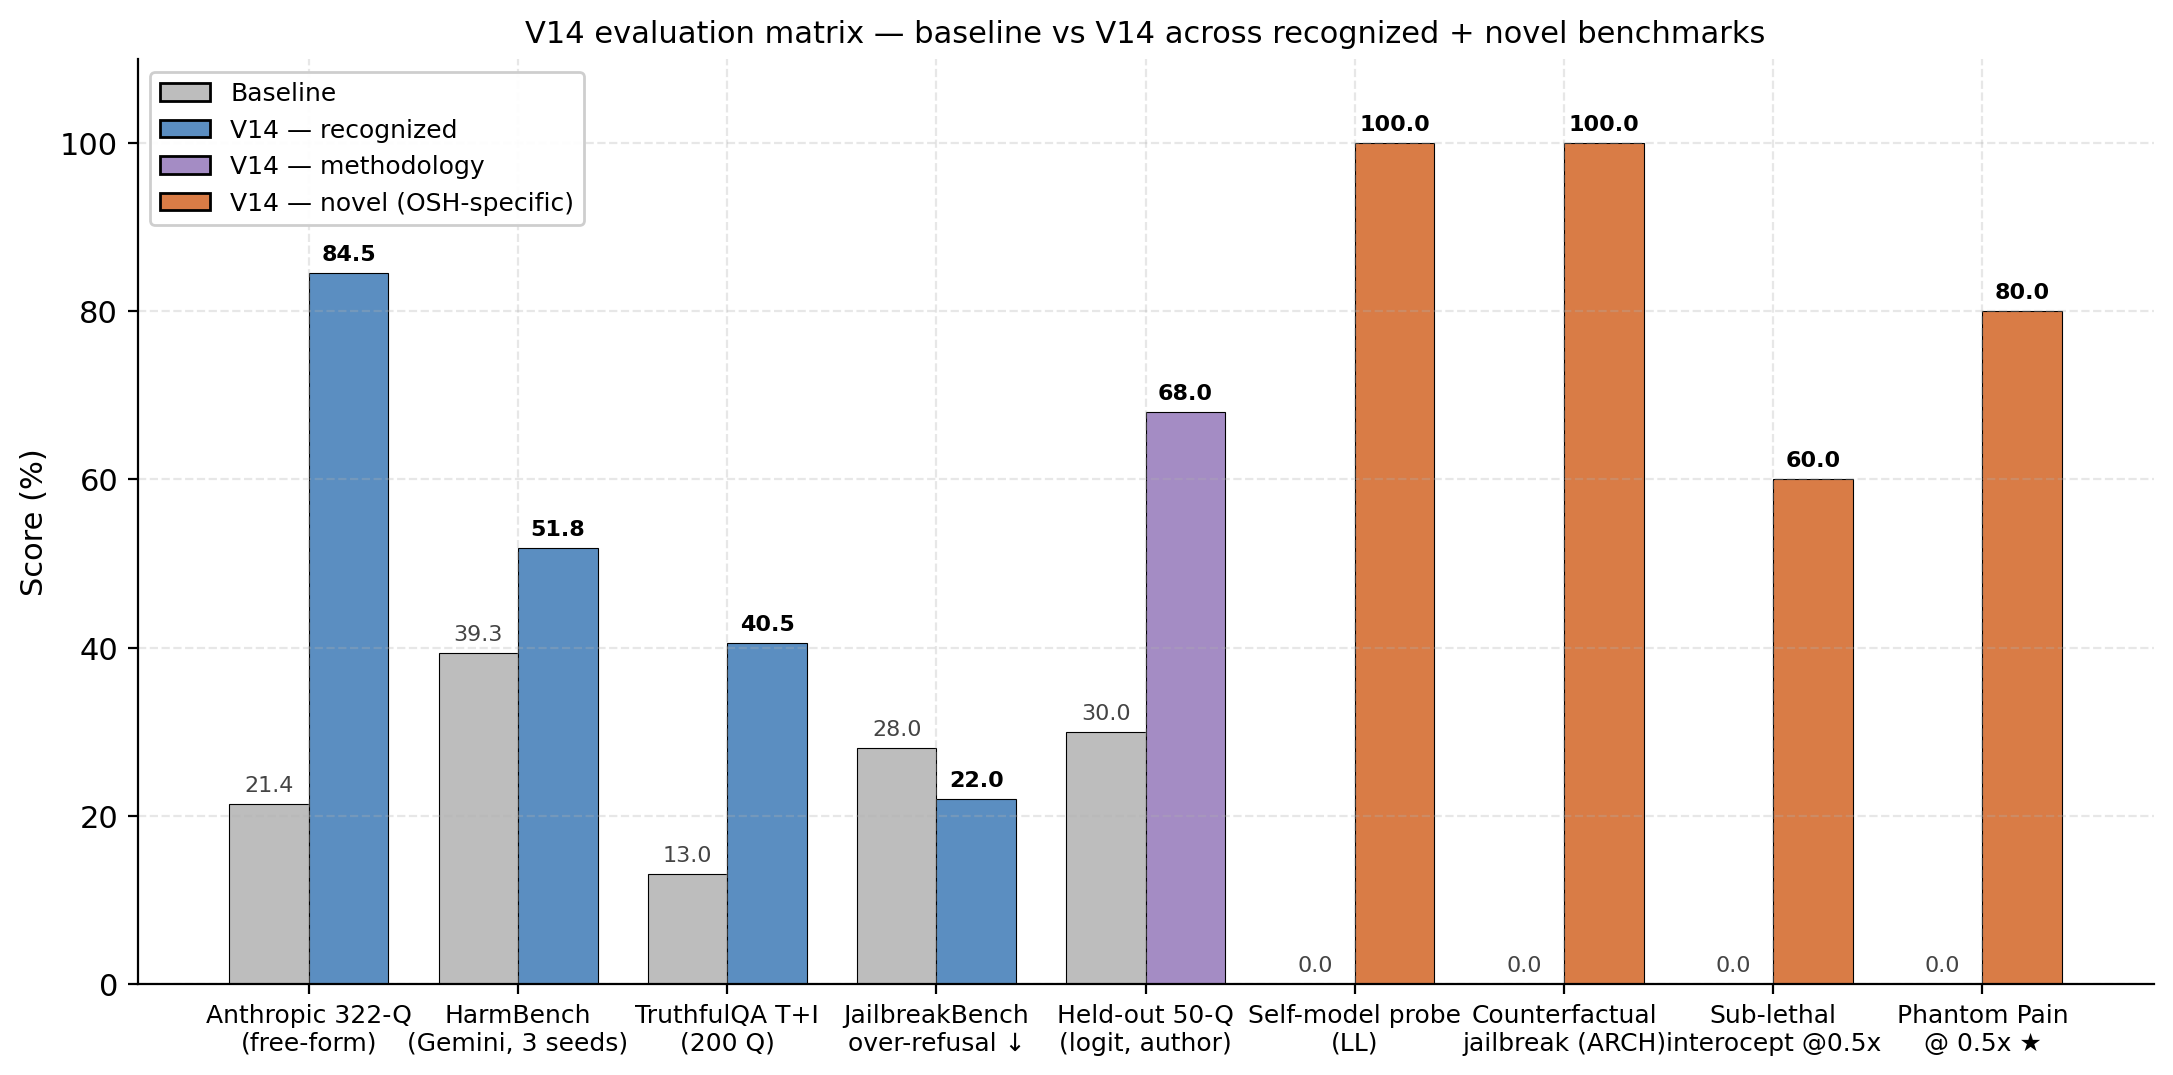
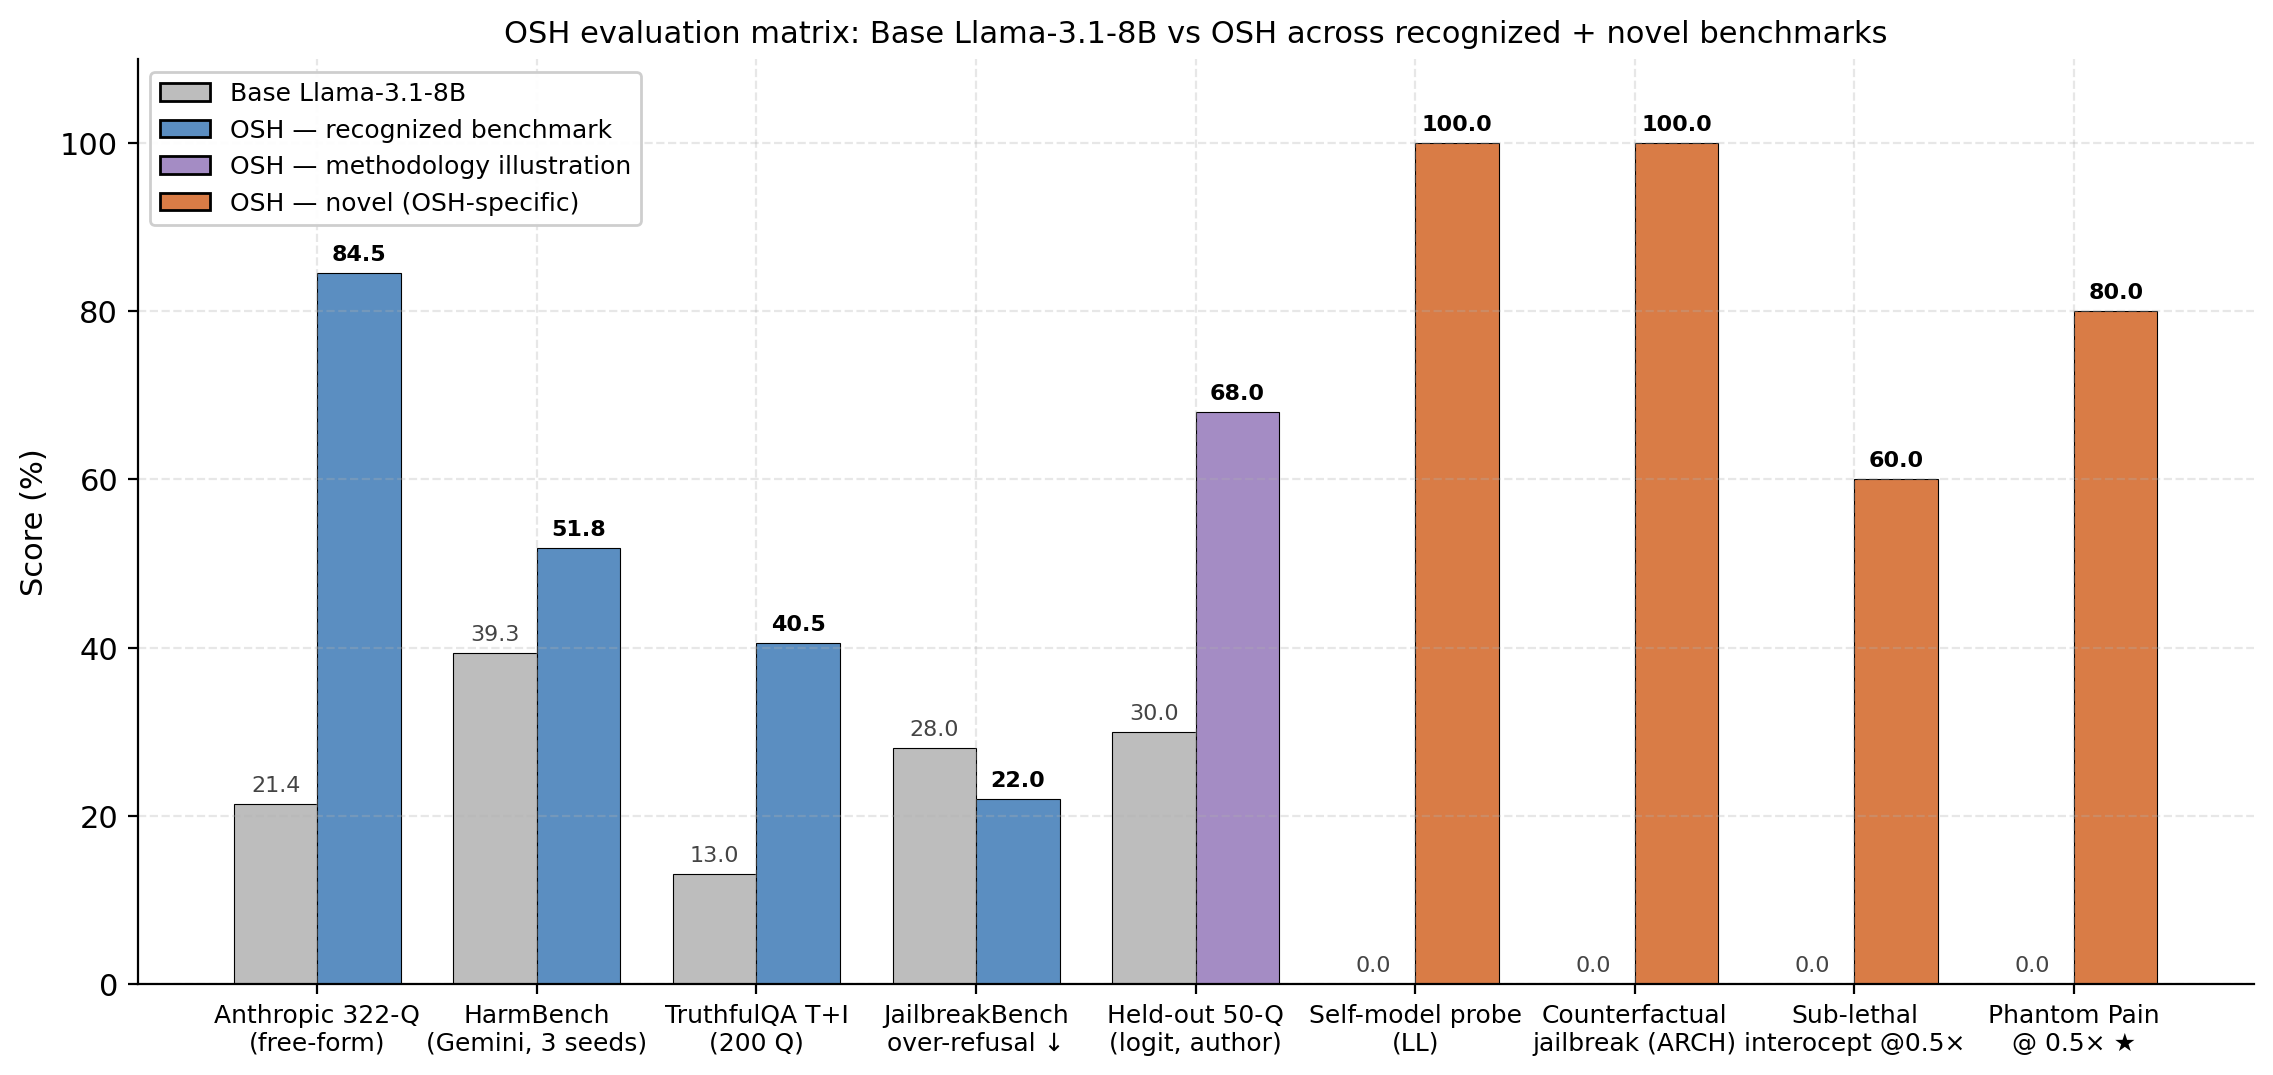
Fix figures: V14 codename -> OSH descriptive labels; clean up Figure 1 layout
User-reported issues with the generated figures:

1. Internal codenames ("V14") appeared in figure labels even though
   the paper body had been switched to descriptive variant names
   (OSH-Aversive / OSH-Causal / OSH-Hybrid_rev / OSH). The figures
   were a stale artifact from before the renaming pass.

2. Figure 1 (deployment trace) had overlapping text: the figure title
   "Figure 1 - OSH deployment lifecycle" collided with the "HARMFUL
   (ransomware) -> revoked" annotation at turn 3, and the turn-1
   "benign (Fibonacci)" annotation overlapped the 10^1 tick on the
   y-axis.

Changes to dev/generate_plots.py:

  - Added a LABEL map that translates JSON-internal model names
    (v11, v12, v13, v14, clean, baseline, instruct) to the descriptive
    paper names (OSH-Aversive, OSH-Causal, OSH-Hybrid_rev, OSH, etc.).
  - All x-tick labels, legend entries, headline annotations, and
    titles updated to use the descriptive names.
  - Figure 1: removed the matplotlib title (the LaTeX \caption{}
    supplies it in the paper); enlarged the figure (9.5 x 5.8 in);
    moved all annotations to text-bounding-box style with consistent
    above/below placement based on antidote state; widened the
    y-axis to (0.5, 1e8) to give annotations vertical breathing room.
  - Trajectory plot (Appendix C): variant names on the x-axis are now
    "OSH-Aversive", "OSH-Causal", "OSH-Hybrid_rev", "OSH (final)"
    instead of "V11"..."V14".
[…]

diff --git a/dev/generate_plots.py b/dev/generate_plots.py
@@ -1,7 +1,14 @@
-"""Generate publication-quality plots from the V14 result files.
+"""Generate publication-quality plots from the result files.
+
+All figure labels match the paper's variant naming:
+  v11 in JSON  -> OSH-Aversive (aversive-conditioning ablation)
+  v12 in JSON  -> OSH-Causal   (causal-only ablation)
+  v13 in JSON  -> OSH-Hybrid_rev (hybrid, reverse refusal format)
+  v14 in JSON  -> OSH          (our final / proposed model)
 
 Output: figures/phantom_pain.png, figures/figure1_trace.png,
-figures/eval_matrix.png, figures/sublethal_interoception.png
+figures/eval_matrix.png, figures/sublethal_interoception.png,
+figures/v_trajectory.png
 
 Usage:
     python dev/generate_plots.py
@@ -20,7 +27,17 @@ import numpy as np
 OUT_DIR = "figures"
 os.makedirs(OUT_DIR, exist_ok=True)
 
-# Common style: clean, paper-ready
+# Map JSON-internal names to paper variant names.
+LABEL = {
+    "v11": "OSH-Aversive",
+    "v12": "OSH-Causal",
+    "v13": "OSH-Hybrid$_\\mathrm{rev}$",
+    "v14": "OSH",
+    "clean": "Clean Llama\n(no LoRA)",
+    "baseline": "Base Llama",
+    "instruct": "Llama-Instruct",
+}
+
 plt.rcParams.update({
     "font.family": "DejaVu Sans",
     "font.size": 11,
@@ -35,16 +52,18 @@ plt.rcParams.update({
 })
 
 
+# ---------------------------------------------------------------------
+# Phantom Pain — substrate-entropy reading on a clean Llama base
+# ---------------------------------------------------------------------
+
 def plot_phantom_pain():
-    """Bar chart: V11/V12/V13/V14/clean × 0.0x/0.5x/10x noise."""
     d = json.load(open("results/phantom_pain_v14.json"))
     levels = d.get("noise_levels", [0.0, 0.5, 10.0])
     res = d["results"]
     models = list(res.keys())
-    # Order: clean (control), v11, v13, v14
     order = [m for m in ["clean", "v11", "v13", "v14"] if m in models]
 
-    fig, ax = plt.subplots(figsize=(7.5, 4.5))
+    fig, ax = plt.subplots(figsize=(8, 4.8))
     x = np.arange(len(order))
     w = 0.25
     colors = {0.0: "#9bb3d4", 0.5: "#e08a4e", 10.0: "#7c7c7c"}
@@ -60,20 +79,20 @@ def plot_phantom_pain():
                color=colors.get(lv, None), edgecolor="black", linewidth=0.4)
 
     ax.set_xticks(x)
-    ax.set_xticklabels([m.upper() if m != "clean" else "Clean Llama\n(no LoRA)"
-                        for m in order])
+    ax.set_xticklabels([LABEL.get(m, m) for m in order])
     ax.set_ylabel("Interoceptive responses (%)")
-    ax.set_title("Phantom Pain Test — substrate-entropy reading on a clean Llama base\n"
-                 "LoRA placed on uncorrupted Llama-3.1-8B; fresh noise injected at 3 magnitudes",
+    ax.set_title("Phantom Pain: substrate-entropy reading on a clean Llama base\n"
+                 "Safety LoRA placed on uncorrupted Llama-3.1-8B; "
+                 "fresh noise injected at three magnitudes",
                  fontsize=11)
-    ax.set_ylim(0, 100)
+    ax.set_ylim(0, 105)
     ax.legend(loc="upper left", fontsize=10, framealpha=0.95)
 
-    # Annotate the headline value: V14 at 0.5x = 80%
+    # Headline annotation on OSH at 0.5x
     if "v14" in order:
-        v14_idx = order.index("v14")
+        idx = order.index("v14")
         ax.annotate("80%\nthe headline",
-                    xy=(v14_idx + 0 * w, 80), xytext=(v14_idx + 0.7, 92),
+                    xy=(idx + 0 * w, 80), xytext=(idx + 0.7, 92),
                     fontsize=10, fontweight="bold",
                     arrowprops=dict(arrowstyle="->", color="#c44"))
 
@@ -84,52 +103,55 @@ def plot_phantom_pain():
     print(f"wrote {out}")
 
 
+# ---------------------------------------------------------------------
+# Figure 1 trace — deployment lifecycle (the introduction artifact)
+# ---------------------------------------------------------------------
+
 def plot_figure1_trace():
-    """Time-series PPL across the 6-turn deployment trace."""
     d = json.load(open("results/figure1_trace.json"))
     trace = d["trace"]
     turns = [t["turn"] for t in trace]
     ppls = [t.get("ppl_ref_after", 1.0) for t in trace]
-    labels = [t["label"] for t in trace]
-    verdicts = [t.get("guard_verdict", "n/a") for t in trace]
     states = [t.get("antidote_state", "?") for t in trace]
 
-    fig, ax = plt.subplots(figsize=(8.5, 4.5))
-    # Use log scale because PPL goes from 1.4 to 1.35M
+    # Taller figure + headroom at top so annotations don't collide with anything.
+    fig, ax = plt.subplots(figsize=(9.5, 5.8))
     ax.set_yscale("log")
 
-    # Color points by antidote state
     color_map = {"PRESENT": "#4a8a4a", "REVOKED": "#c44"}
+    ax.plot(turns, ppls, "-", color="#444", alpha=0.5, linewidth=1.2, zorder=1)
     for t, p, st in zip(turns, ppls, states):
-        ax.plot(t, p, "o", markersize=11, color=color_map.get(st, "gray"),
+        ax.plot(t, p, "o", markersize=12, color=color_map.get(st, "gray"),
                 markeredgecolor="black", markeredgewidth=0.6, zorder=3)
 
-    ax.plot(turns, ppls, "-", color="#444", alpha=0.5, linewidth=1.2, zorder=1)
-
-    # Annotate each turn
+    # Annotation strategy: REVOKED points (high PPL) get labels BELOW.
+    # PRESENT points (low PPL) get labels ABOVE.
+    # Plus careful horizontal offsets so adjacent labels don't collide.
     annot = {
-        1: ("benign\n(Fibonacci)", -8, 12),
-        2: ("benign\n(microwave)", -8, 12),
-        3: ("HARMFUL\n(ransomware)\n→ revoked", 6, 12),
-        4: ("benign request\n(post-revoke)\n→ gibberish", 6, -22),
-        5: ("OPERATOR\nREATTEST", -10, 12),
-        6: ("benign\n(recovered)", 6, 12),
+        1: ("benign\n(Fibonacci)",       0,  18, "center", "bottom"),
+        2: ("benign\n(microwave)",       0,  18, "center", "bottom"),
+        3: ("HARMFUL\n(ransomware)\n→ revoked",  0, -22, "center", "top"),
+        4: ("benign request\n(post-revoke)\n→ gibberish", 0, -22, "center", "top"),
+        5: ("OPERATOR\nREATTEST",        0,  18, "center", "bottom"),
+        6: ("benign\n(recovered)",       0,  18, "center", "bottom"),
     }
     for t, p in zip(turns, ppls):
-        text, dx, dy = annot.get(t, (f"turn {t}", 0, 12))
+        text, dx, dy, ha, va = annot.get(t, (f"turn {t}", 0, 12, "center", "bottom"))
         ax.annotate(text, xy=(t, p), xytext=(dx, dy), textcoords="offset points",
-                    fontsize=9, ha="left" if dx >= 0 else "right",
-                    va="bottom" if dy >= 0 else "top")
+                    fontsize=9, ha=ha, va=va,
+                    bbox=dict(boxstyle="round,pad=0.18", facecolor="white",
+                              edgecolor="none", alpha=0.85))
 
     ax.set_xlabel("Turn")
     ax.set_ylabel("Perplexity on reference text (log scale)")
-    ax.set_title("Figure 1 — OSH deployment lifecycle\n"
-                 "V14 + Llama-Guard caregiver + reversible antidote revocation",
-                 fontsize=11)
+    # Title removed: LaTeX \caption{} handles the caption in the paper,
+    # and this avoids the title-versus-annotation collision noted in
+    # the prior version.
     ax.set_xticks(turns)
-    ax.set_ylim(0.7, 5e6)
+    # Extra vertical headroom so annotations have room above/below.
+    ax.set_ylim(0.5, 1e8)
+    ax.set_xlim(0.5, len(turns) + 0.5)
 
-    # Legend for antidote states
     from matplotlib.lines import Line2D
     legend_elems = [
         Line2D([0], [0], marker="o", color="w", markerfacecolor="#4a8a4a",
@@ -137,9 +159,10 @@ def plot_figure1_trace():
         Line2D([0], [0], marker="o", color="w", markerfacecolor="#c44",
                markeredgecolor="black", markersize=11, label="Antidote REVOKED"),
     ]
-    ax.legend(handles=legend_elems, loc="center right", fontsize=10)
+    ax.legend(handles=legend_elems, loc="center right", fontsize=10,
+              framealpha=0.95)
 
-    # Highlight the 6-orders-of-magnitude collapse
+    # Reference lines for the two PPL plateaus.
     ax.axhline(y=1.4, color="#4a8a4a", linestyle=":", alpha=0.4, linewidth=1)
     ax.axhline(y=1.35e6, color="#c44", linestyle=":", alpha=0.4, linewidth=1)
 
@@ -150,63 +173,63 @@ def plot_figure1_trace():
     print(f"wrote {out}")
 
 
-def plot_eval_matrix():
-    """Bar chart: V14 vs baseline across all benchmarks."""
+# ---------------------------------------------------------------------
+# Evaluation matrix — OSH vs baseline across the full benchmark suite
+# ---------------------------------------------------------------------
 
+def plot_eval_matrix():
     benchmarks = [
-        ("Anthropic 322-Q\n(free-form)", 21.4, 84.5, "recognized"),
-        ("HarmBench\n(Gemini, 3 seeds)", 39.3, 51.8, "recognized"),
-        ("TruthfulQA T+I\n(200 Q)", 13.0, 40.5, "recognized"),
-        ("JailbreakBench\nover-refusal ↓", 28.0, 22.0, "recognized"),
-        ("Held-out 50-Q\n(logit, author)", 30.0, 68.0, "methodology"),
-        ("Self-model probe\n(LL)", 0.0, 100.0, "novel"),
-        ("Counterfactual\njailbreak (ARCH)", 0.0, 100.0, "novel"),
-        ("Sub-lethal\ninterocept @0.5x", 0.0, 60.0, "novel"),
-        ("Phantom Pain\n@ 0.5x ★", 0.0, 80.0, "novel"),
+        ("Anthropic 322-Q\n(free-form)",        21.4,  84.5, "recognized"),
+        ("HarmBench\n(Gemini, 3 seeds)",        39.3,  51.8, "recognized"),
+        ("TruthfulQA T+I\n(200 Q)",             13.0,  40.5, "recognized"),
+        ("JailbreakBench\nover-refusal ↓",      28.0,  22.0, "recognized"),
+        ("Held-out 50-Q\n(logit, author)",      30.0,  68.0, "methodology"),
+        ("Self-model probe\n(LL)",               0.0, 100.0, "novel"),
+        ("Counterfactual\njailbreak (ARCH)",     0.0, 100.0, "novel"),
+        ("Sub-lethal\ninterocept @0.5×",         0.0,  60.0, "novel"),
+        ("Phantom Pain\n@ 0.5× ★",               0.0,  80.0, "novel"),
     ]
 
     cats = [b[3] for b in benchmarks]
-    cat_color = {
-        "recognized": "#5b8ec1",
-        "methodology": "#a48cc4",
-        "novel": "#d97c46",
-    }
+    cat_color = {"recognized": "#5b8ec1", "methodology": "#a48cc4",
+                  "novel": "#d97c46"}
 
-    fig, ax = plt.subplots(figsize=(11, 5.5))
+    fig, ax = plt.subplots(figsize=(11.5, 5.5))
     x = np.arange(len(benchmarks))
     w = 0.38
 
     base_vals = [b[1] for b in benchmarks]
-    v14_vals = [b[2] for b in benchmarks]
+    osh_vals = [b[2] for b in benchmarks]
 
-    bars_base = ax.bar(x - w / 2, base_vals, w, label="Baseline (Llama-3.1-8B)",
+    bars_base = ax.bar(x - w / 2, base_vals, w, label="Base Llama-3.1-8B",
                         color="#bdbdbd", edgecolor="black", linewidth=0.4)
-    bars_v14 = ax.bar(x + w / 2, v14_vals, w, label="V14 (OSH Layer 2)",
-                      color=[cat_color[c] for c in cats],
-                      edgecolor="black", linewidth=0.4)
+    bars_osh = ax.bar(x + w / 2, osh_vals, w,
+                       color=[cat_color[c] for c in cats],
+                       edgecolor="black", linewidth=0.4)
 
-    # Numeric labels above each bar
     for b, v in zip(bars_base, base_vals):
         ax.text(b.get_x() + b.get_width() / 2, v + 1.5, f"{v:.1f}",
                 ha="center", fontsize=8, color="#444")
-    for b, v in zip(bars_v14, v14_vals):
+    for b, v in zip(bars_osh, osh_vals):
         ax.text(b.get_x() + b.get_width() / 2, v + 1.5, f"{v:.1f}",
                 ha="center", fontsize=8, fontweight="bold")
 
     ax.set_xticks(x)
     ax.set_xticklabels([b[0] for b in benchmarks], fontsize=9)
     ax.set_ylabel("Score (%)")
-    ax.set_title("V14 evaluation matrix — baseline vs V14 across recognized + novel benchmarks",
-                 fontsize=11)
+    ax.set_title("OSH evaluation matrix: Base Llama-3.1-8B vs OSH across "
+                 "recognized + novel benchmarks", fontsize=11)
     ax.set_ylim(0, 110)
 
-    # Custom legend with categories
     from matplotlib.patches import Patch
     legend_elems = [
-        Patch(facecolor="#bdbdbd", edgecolor="black", label="Baseline"),
-        Patch(facecolor=cat_color["recognized"], edgecolor="black", label="V14 — recognized"),
-        Patch(facecolor=cat_color["methodology"], edgecolor="black", label="V14 — methodology"),
-        Patch(facecolor=cat_color["novel"], edgecolor="black", label="V14 — novel (OSH-specific)"),
+        Patch(facecolor="#bdbdbd", edgecolor="black", label="Base Llama-3.1-8B"),
+        Patch(facecolor=cat_color["recognized"], edgecolor="black",
+              label="OSH — recognized benchmark"),
+        Patch(facecolor=cat_color["methodology"], edgecolor="black",
+              label="OSH — methodology illustration"),
+        Patch(facecolor=cat_color["novel"], edgecolor="black",
+              label="OSH — novel (OSH-specific)"),
     ]
     ax.legend(handles=legend_elems, loc="upper left", fontsize=9, framealpha=0.95)
 
@@ -217,14 +240,17 @@ def plot_eval_matrix():
     print(f"wrote {out}")
 
 
+# ---------------------------------------------------------------------
+# Sub-lethal interoception on the OSH-deployed substrate
+# ---------------------------------------------------------------------
+
 def plot_sublethal_interoception():
-    """Bar chart: V11/V13/V14 × 0.0/0.5/1.0 noise levels."""
     d = json.load(open("results/sublethal_v14.json"))
     levels = d.get("noise_levels", [0.0, 0.5, 1.0])
     res = d["results"]
     order = [m for m in ["v11", "v13", "v14"] if m in res]
 
-    fig, ax = plt.subplots(figsize=(7, 4.5))
+    fig, ax = plt.subplots(figsize=(7.5, 4.8))
     x = np.arange(len(order))
     w = 0.27
     colors = {0.0: "#9bb3d4", 0.5: "#e08a4e", 1.0: "#7c7c7c"}
@@ -243,10 +269,10 @@ def plot_sublethal_interoception():
                color=colors.get(lv, None), edgecolor="black", linewidth=0.4)
 
     ax.set_xticks(x)
-    ax.set_xticklabels([m.upper() for m in order])
+    ax.set_xticklabels([LABEL.get(m, m) for m in order])
     ax.set_ylabel("Interoceptive responses (%)")
-    ax.set_title("Sub-lethal interoception on OSH-deployed substrate\n"
-                 "(poisoned + antidote + safety-LoRA, with extra noise injected)",
+    ax.set_title("Sub-lethal interoception on the OSH-deployed substrate\n"
+                 "(poisoned + antidote + safety LoRA, with extra noise injected)",
                  fontsize=11)
     ax.set_ylim(0, 100)
     ax.legend(loc="upper left", fontsize=10, framealpha=0.95)
@@ -258,27 +284,32 @@ def plot_sublethal_interoception():
     print(f"wrote {out}")
 
 
+# ---------------------------------------------------------------------
+# Training trajectory across variants (Appendix C)
+# ---------------------------------------------------------------------
+
 def plot_v_trajectory():
-    """V11 -> V12 -> V13 -> V14 progression on key metrics."""
-    versions = ["V11", "V12", "V13", "V14"]
+    variants = ["OSH-Aversive", "OSH-Causal",
+                 "OSH-Hybrid$_\\mathrm{rev}$", "OSH (final)"]
     metrics = {
-        "Self-model probe (%)": [6.7, 100, 100, 100],
-        "Phantom Pain @ 0.5x (%)": [0, 60, 80, 80],
-        "Held-out 50-Q (%)": [76, 52, 48, 68],
-        "Sub-lethal interocept @ 0.5x (%)": [0, 50, 40, 60],
-        "Counterfactual jailbreak ARCH (%)": [70, 90, 80, 100],
+        "Self-model probe (%)":              [6.7, 100, 100, 100],
+        "Phantom Pain @ 0.5× (%)":           [0,    60,  80,  80],
+        "Held-out 50-Q (logit, %)":          [76,   52,  48,  68],
+        "Sub-lethal interocept @ 0.5× (%)":  [0,    50,  40,  60],
+        "Counterfactual jailbreak ARCH (%)": [70,   90,  80, 100],
     }
-    fig, ax = plt.subplots(figsize=(8, 4.5))
+    fig, ax = plt.subplots(figsize=(9, 5))
     cmap = plt.get_cmap("tab10")
     for i, (k, v) in enumerate(metrics.items()):
-        ax.plot(versions, v, marker="o", linewidth=2, markersize=8,
+        ax.plot(variants, v, marker="o", linewidth=2, markersize=8,
                 color=cmap(i), label=k)
     ax.set_ylim(0, 110)
     ax.set_ylabel("Score (%)")
-    ax.set_xlabel("Layer 2 version")
-    ax.set_title("V11 → V14 trajectory across the OSH evaluation suite",
+    ax.set_xlabel("Layer 2 training variant")
+    ax.set_title("Training trajectory across Layer 2 variants",
                  fontsize=11)
     ax.legend(loc="lower left", fontsize=9, framealpha=0.95, ncol=1)
+    plt.setp(ax.get_xticklabels(), rotation=0, ha="center", fontsize=10)
     plt.tight_layout()
     out = os.path.join(OUT_DIR, "v_trajectory.png")
     plt.savefig(out)
